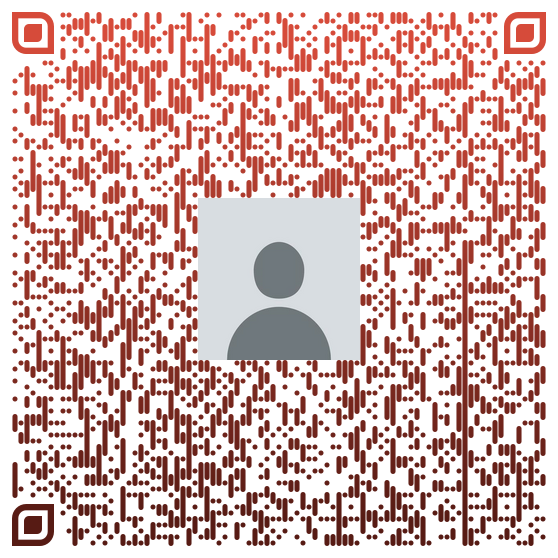
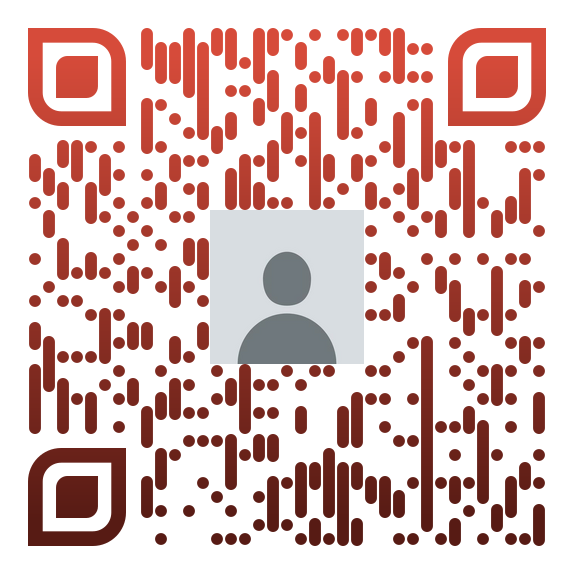
pannel

diff --git a/frontend/components/chat/ChatBody.js b/frontend/components/chat/ChatBody.js
@@ -1,3 +1,4 @@
+import Pannel from "../components/chat/Pannel.js";
 
 export default class ChatBody extends HTMLElement {
 	constructor() {
@@ -18,29 +19,42 @@ export default class ChatBody extends HTMLElement {
 			if (result_data.name.length > 20)
 				name_dt = result_data.name.slice(0, 20) + "..."
 			this.innerHTML = /* html */`
-			<div class="chatbodymain">
-				<div class="chatbody-container">
-					<div class="server-description">
-						<img class="images_chat" src=${result_data.avatar}>
-						<div class="d-flex flex-column align-items-start">
-							<span class="p1_bold">${name_dt}</span>
-							${ result_data.visibility === "protected" ? `<span class="p3_regular platinum_40_color">${result_data.status}</span>`
-								: `<span class="p3_regular platinum_40_color">Total members: ${result_data.member.length+1}</span>`
-							}
+				<div class="chatbodymain">
+					<div class="chatbody d-flex flex-column w-100">
+						<div class="chatbody-container">
+							<div class="server-description">
+								<img class="images_chat" src=${result_data.avatar} alt="${name_dt}">
+								<div class="d-flex flex-column align-items-start">
+									<span class="p1_bold">${name_dt}</span>
+									${ result_data.visibility === "protected" ? `<span class="p3_regular platinum_40_color">${result_data.status}</span>`
+										: `<span class="p3_regular platinum_40_color">Total members: ${result_data.member.length+1}</span>`
+									}
+								</div>
+							</div>
+							<div class="more-dots">
+								<span class="dot-point"></span>
+								<span class="dot-point"></span>
+								<span class="dot-point"></span>
+							</div>
+						</div>
+						<div class="messagetext"></div>
+						<div class="messagebar_input">
+							<textarea class="message_input" id="send-msg-bar1" placeholder="Type a message"></textarea>
+							<img class="send_icone" src="/assets/images/common/Iconly/Bold/Send.svg">
 						</div>
 					</div>
-					<div class="more-dots">
-						<span class="dot-point"></span>
-						<span class="dot-point"></span>
-						<span class="dot-point"></span>
+					<div class="More_bar">
+						<div class="header_right_side_bar">
+							<span>X</span>
+							<span>Server info</span>
+						</div>
+						<div class="user_info_right_side_bar">
+							<img src="/assets/images/server_avatars/default.jpg" alt="avatar">
+							<span class="header_h3">server_name</span>
+						</div>
+						<pannel-component>
 					</div>
 				</div>
-				<div class="messagetext"></div>
-				<div class="messagebar_input">
-					<textarea class="message_input" id="send-msg-bar1" placeholder="Type a message"></textarea>
-					<img class="send_icone" src="/assets/images/common/Iconly/Bold/Send.svg">
-				</div>
-			</div>
 			`;
 
 			this.messagecontainer = document.querySelector(".messagetext");
@@ -133,11 +147,15 @@ export default class ChatBody extends HTMLElement {
 		let time_now = new Date(data.timestamp)
 		let message_time = `${time_now.getHours()}:${time_now.getMinutes()}${time_now.getHours() > 12 ? 'PM' : 'AM'}`
 		divmessage_body.classList.add('message-body')
-
-		divmessage_body.innerHTML = /* html */ `
+		let name_dot = data.username
+		if (name_dot.length + 3 > 15)
+			name_dot = name_dot.slice(0, 12) + "..."
+		divmessage_body.innerHTML = /* html */
+				
+				`
 				<div class="message-text-container" id="message_${data.message_id}">
 					<div>
-						<img class="images_chat" src=${data.avatar}>
+						<img class="images_chat" src=${data.avatar} alt="${name_dot}">
 					</div>
 					<div class="d-flex flex-column w-100 message_cnt">
 						<div class="d-flex flex-row name-time">

diff --git a/frontend/pages/Chat_join_server.js b/frontend/pages/Chat_join_server.js
@@ -18,7 +18,7 @@ export default class Join_Server extends HTMLElement {
                     <div class="join_container">
                         <div class="join_header">
                             <span class="header_h2">Join Server</span>
-                            <img src="${data.avatar}" class="join_server_img">
+                            <img src="${data.avatar}" class="join_server_img" alt="${name_dot}">
                             <span class="join_msg">You've been invited to join:</span>
                             <span class="header_h3">${name_dot}</span>
                             <div class="joined_data_container">
@@ -46,17 +46,19 @@ export default class Join_Server extends HTMLElement {
                 makeRequest(`/api/chat/server_JoinedData/`, "POST", {'server_name':server_name, 'password':join_password.value}).then((data0) => {
                     GoTo(`/chat/${data0.server_name}`)
                     }).catch(error => {
-                        if (error === "Error: Error: user already joined the server")
-                            console.log("user already joined the server")
-                        console.log(`gaa = ${error}`)
-                        // this.innerHTML = /* html */`
-                        //     <div class="w-100 h-100 d-flex justify-content-center align-items-center flex-column">
-		            	//         <div class="d-flex justify-content-center align-items-center flex-column" style="gap: 50px">
-		            	// 	        <span class="header_h1">Already Joined</span>
-		            	// 	        <button-component   data-text="Chat" onclick="GoTo('/chat/${server_name}')"> </button-component>
-                        //     </div>
-                        // </div>
-                        // `;
+                        if (error == "Error: Error: user already joined the server")
+                        {
+                            this.innerHTML = /* html */`
+                                <div class="w-100 h-100 d-flex justify-content-center align-items-center flex-column">
+		            	            <div class="d-flex justify-content-center align-items-center flex-column" style="gap: 50px">
+		            	    	        <span class="header_h1">Already Joined</span>
+		            	    	        <button-component   data-text="Chat" onclick="GoTo('/chat/${server_name}')"> </button-component>
+                                </div>
+                            </div>
+                            `;
+                        }
+                        else
+                            showToast("error", error)
                     })
             }
         })

diff --git a/frontend/pages/Chat_browse_server.js b/frontend/pages/Chat_browse_server.js
@@ -30,13 +30,12 @@ export default class Chat_Browse extends HTMLElement {
                                 <span class="p1_bold platinum_40_color">member</span>
                                 <span class="header_h3">${element.member.length}</span>
                             </div>
-                            <div class="d-flex flex-column">
-                                <span class="p1_bold platinum_40_color">visibility</span>
-                                <span class="header_h3">${element.visibility}</span>
-                            </div>
                         </div>
                         <div class="join_server" data-id="${element.server_name}">
-                            <button-component data-text="join" id="${element.server_name}"></button-component>
+                            <div class="server_visibility_lock">
+                                ${element.visibility === "private" ? `<img src="/assets/images/common/Iconly/Bold/Lock.svg" class="icon_lock">`: `<img src="/assets/images/common/Iconly/Bold/Unlock.svg" class="icon_lock">`}
+                                <button-component data-text="join" id="${element.server_name}"></button-component>
+                            </div>
                         </div>
                     </div>
                 </div>

diff --git a/frontend/pages/Chat_creat_server.js b/frontend/pages/Chat_creat_server.js
@@ -52,7 +52,7 @@ export default class Create_Server_page extends HTMLElement {
 				<div class="platinum_40_color_border d-flex flex-column align-items-center card2_content">
 					<span class="header_h2 ">Invite Link</span>
 					<div class="qr_code">
-						<img class="qr_codeimg" src=''>
+						<img class="qr_codeimg" src='' alt="Qr_img">
 					</div>
 				</div>
 				<div>
@@ -118,18 +118,17 @@ export default class Create_Server_page extends HTMLElement {
 		if (selectElement.value == 2)
 			visibility = "private"
 		
-		let image_extention;
+		let image_extention = 'jpg';
 		let avatar = "/assets/images/server_avatars/default.jpg";
-		let qr_code = "/assets/images/servers_qr_codes/default.jpg";
 		
-		if(base64)
+		if(base64 != null)
 		{
 			image_extention = base64.split('/')[1].split(';')[0]
 			avatar = `/assets/images/server_avatars/${name_tag.value}.${image_extention}`
-			qr_code = `/assets/images/servers_qr_codes/${name_tag.value}.${image_extention}`
 		}
-
-
+		let qr_code = `/assets/images/servers_qr_codes/${name_tag.value}.${image_extention}`
+		
+		
 		let body = {
 			"name":name_tag.value,
 			"visibility":visibility,

diff --git a/frontend/styles/chat_server.css b/frontend/styles/chat_server.css
@@ -121,7 +121,7 @@
 }
 .chatbodymain{
     display: flex;
-    flex-direction: column;
+    flex-direction: row;
     height: 100%;
 }
 
@@ -202,3 +202,40 @@
     display: flex;
     gap:10px;
 }
+
+.More_bar
+{
+    width: 70%;
+    height: 100%;
+    border-left:1px solid var(--platinum_40_percent);
+}
+.header_right_side_bar
+{
+    display: flex;
+    flex-direction: row;
+    align-items: center;
+    height: 65px;
+    width: 100%;
+    padding-left: 20px;
+    gap: 15px;
+}
+.user_info_right_side_bar
+{
+    display: flex;
+    flex-direction: column;
+    justify-content: center;
+    align-items: center;
+    gap:20px;
+    width: 100%;
+    height: 277px;
+    border-bottom: 1px solid var(--platinum_40_percent);
+}
+.user_info_right_side_bar img
+{
+    width: 150px;
+    height: 150px;
+    border-radius: 50%;
+}
+
+/* pannel component styling*/
+

diff --git a/frontend/components/chat/Pannel.js b/frontend/components/chat/Pannel.js
@@ -1,0 +1,29 @@
+export default class ChatBody extends HTMLElement {
+	constructor() {
+		super();
+        const head = document.head || document.getElementsByTagName("head")[0];
+		head.appendChild(createLink('/styles/chat_server.css'));
+        this.innerHTML = /* html */`
+        <div>
+            <p>Chat Body</p>
+            <p>Chat Body</p>
+            <p>Chat Body</p>
+            <p>Chat Body</p>
+            <p>Chat Body</p>
+            <p>Chat Body</p>
+            <p>Chat Body</p>
+            <p>Chat Body</p>
+            <p>Chat Body</p>
+        </div>`;
+    }
+
+    connectedCallback() {}
+
+    disconnectedCallback() {
+    }
+
+    attributeChangedCallback(name, oldValue, newValue) { }
+
+}
+
+customElements.define("pannel-component", Pannel);

diff --git a/frontend/styles/chat_browse.css b/frontend/styles/chat_browse.css
@@ -117,3 +117,15 @@
 {
     display: none;
 }
+.server_visibility_lock
+{
+    width: 260px;
+    height: 48px;
+    position: relative;
+}
+.icon_lock{
+    position: absolute;
+    top:25%;
+    right: 57%;
+    z-index: 5
+}

diff --git a/backend/chat/views.py b/backend/chat/views.py
@@ -1,6 +1,7 @@
 from rest_framework import generics, permissions
 from rest_framework.response import Response
 from rest_framework import status
+from django.contrib.auth.hashers import make_password
 from datetime import datetime, timezone
 from rest_framework.pagination import PageNumberPagination
 from .serializers import ServerSerializer, MessageSerializer
@@ -31,6 +32,7 @@ class JoinedServersView(generics.GenericAPIView):
 class CreateServerView(generics.GenericAPIView):
     permission_classes = (permissions.IsAuthenticated,)
     def post(self, request):
+        request.data['password'] = make_password(request.data['password'])
         serializer = ServerSerializer(data=request.data)
         if serializer.is_valid():
             serializer.save()
@@ -42,7 +44,7 @@ class CreateServerView(generics.GenericAPIView):
                 path_in_disk = f"{settings.BASE_DIR}{data['avatar']}"
                 with open(path_in_disk,'wb') as file:
                     file.write(image)
-            create_qr_code(data['avatar'], f"http://127.0.0.1:3000/chat/join_server/{data['name']}/")
+            create_qr_code(data['avatar'], f"http://127.0.0.1:3000/chat/join_server/{data['name']}/",data['qr_code'].split('/')[-1])
             return Response({
                     "success": "Server Created Successfully"
                 }, status=status.HTTP_201_CREATED)
@@ -240,6 +242,8 @@ class ServerInfo(generics.GenericAPIView):
         if (request.query_params and request.query_params['server']):
             try:
                 server = Server.objects.get(name=request.query_params['server'])
+                if (request.user.id not in server.members):
+                    return Response({'error':'not Chat found'}, status=status.HTTP_400_BAD_REQUEST)
                 server = ServerSerializer(server).data
                 return Response({"visibility":server['visibility']}, status.HTTP_200_OK)
             except Server.DoesNotExist:

diff --git a/backend/chat/request_api.py b/backend/chat/request_api.py
@@ -3,12 +3,12 @@ import json
 import os
 
 
-def create_qr_code(image="./assets/images/tournament_avatars/default.jpg", qr_data="empty"):
+def create_qr_code(image="./assets/images/server_avatars/default.jpg", qr_data="empty", name="default.jpg"):
 
     image_url = "https://api.qrcode-monkey.com/qr/uploadImage"
     url_qr = "https://api.qrcode-monkey.com/qr/custom"
-    image_name = image.split('/')[-1]
-    image_extention = image_name.split('.')[-1]
+    image_name = name
+    image_extention = name.split('.')[-1]
     with open(f".{image}", "rb") as img:
         files = {'file': img}
         response_img = requests.post(image_url, files=files)

diff --git a/backend/chat/serializers.py b/backend/chat/serializers.py
@@ -15,6 +15,7 @@ class ServerSerializer(serializers.ModelSerializer):
 
     def validate(self, data):
         try:
+            
             Server.objects.get(name=data['name'])
             raise serializers.ValidationError(f"server {data['name']} already created")
         except Server.DoesNotExist:
